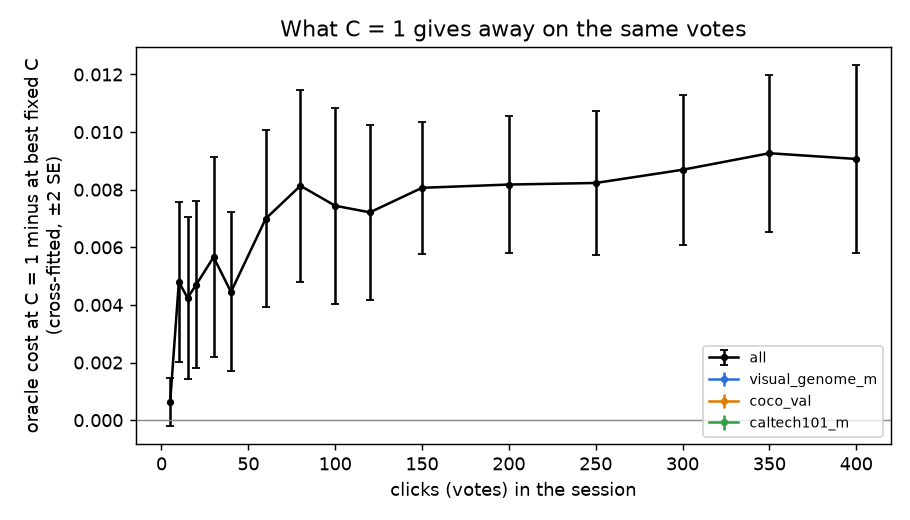
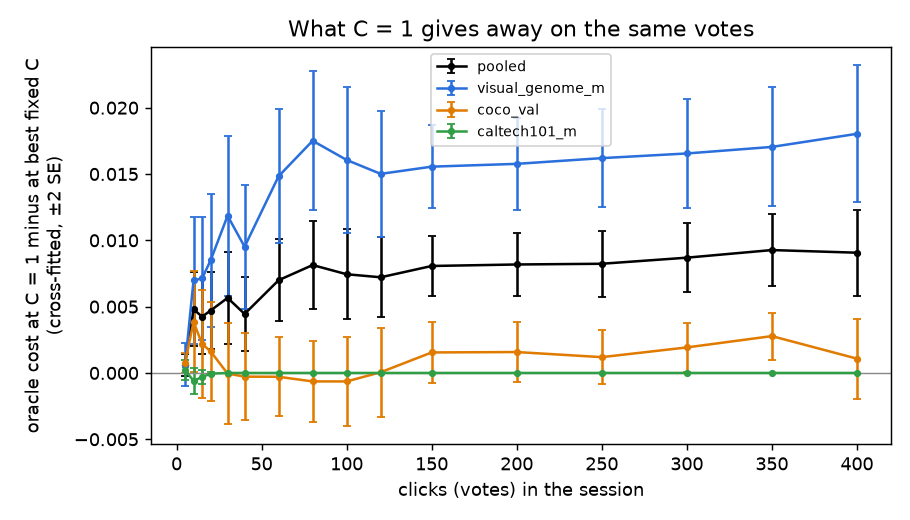
#3945: penalty figure reads the analyzer's short dataset scopes
Claude-Session: https://claude.ai/code/session_01Q8KvKjgBL7pTwLPQT1g77M

diff --git a/scripts/experiments/overtrain_3945/figures.py b/scripts/experiments/overtrain_3945/figures.py
@@ -55,10 +55,19 @@ def fig_c_path(rp: Path, out: Path) -> None:
 def fig_penalty(rp: Path, out: Path) -> None:
     p = pd.read_csv(rp / "R_penalty.csv")
     fig, ax = plt.subplots(figsize=(7, 4))
-    for scope, color in (("all", "black"), ("visual_genome_m", BLUE), ("coco_val", ORANGE), ("caltech101_m", GREEN)):
+    # analyze_c_path.py writes the dataset scopes by their short names.
+    for scope, color in (("all", "black"), ("vg", BLUE), ("coco", ORANGE), ("caltech", GREEN)):
         s = p[p["scope"] == scope].sort_values("t")
         ax.errorbar(
-            s["t"], s["penalty"], yerr=2 * s["se"], color=color, marker="o", ms=3, capsize=2, lw=1.4, label=scope
+            s["t"],
+            s["penalty"],
+            yerr=2 * s["se"],
+            color=color,
+            marker="o",
+            ms=3,
+            capsize=2,
+            lw=1.4,
+            label=DS.get(scope, "pooled"),
         )
     ax.axhline(0, color=GREY, lw=0.8)
     ax.set_xlabel("clicks (votes) in the session")
